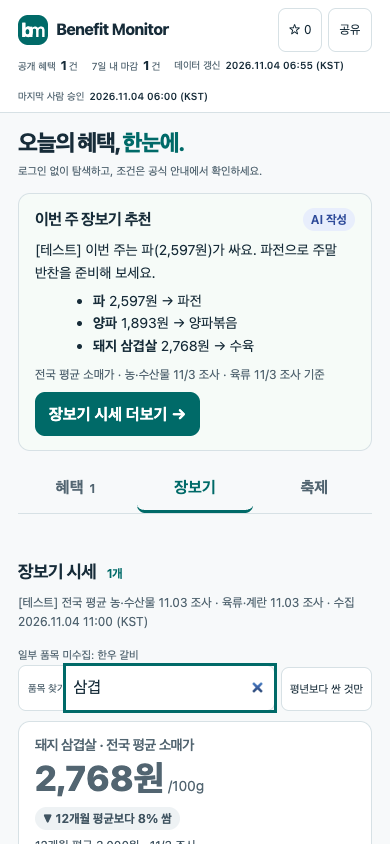
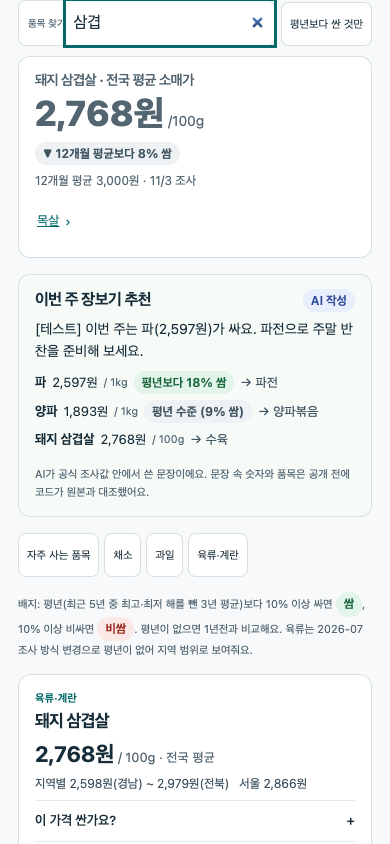
fix(web): 장보기 결과 카드 보강(행 없는 링크 제외·첫 화면 노출·안내 문구·접근성)

diff --git a/frontend/tests/e2e/groceries.spec.ts b/frontend/tests/e2e/groceries.spec.ts
@@ -133,8 +133,8 @@ const grocery_baselines={schema_version:1,source:'grocery_baselines',items:[
  {id:'moksal',name:'목살',aliases:['돼지 목살'],group:'고기·알',row:{kind:'meat',id:'4304-28-목살'},baseline:null},
  {id:'apdari',name:'앞다리',aliases:['돼지 앞다리'],group:'고기·알',row:{kind:'meat',id:'9999-1-앞다리'},baseline:null}]};
 
-for(const width of [360,390])test(`quick check card answers a basket search above the weekly pick ${width}`,async({page})=>{
- await page.setViewportSize({width,height:844});
+for(const [width,height] of [[360,800],[390,844]])test(`quick check card answers a basket search above the weekly pick ${width}`,async({page})=>{
+ await page.setViewportSize({width,height});
  await page.clock.install({time:new Date(NOW)});
  await page.route('**/briefing.json',route=>route.fulfill({json:snapshot(undefined,{groceries:quickGroceries,grocery_pick:weekly,grocery_baselines})}));
  await page.goto('./');
@@ -142,6 +142,11 @@ for(const width of [360,390])test(`quick check card answers a basket search abov
  await page.locator('#grocery-q').fill('삼겹');
  const card=page.locator('.grocery-quick');
  await expect(card).toBeInViewport();
+ // The answer itself (price and badge) must be fully on the first screen.
+ await expect(card.locator('.grocery-quick-price')).toBeInViewport({ratio:1});
+ await expect(card.locator('.grocery-badge')).toBeInViewport({ratio:1});
+ await expect(card.locator('.grocery-quick-note')).toBeInViewport({ratio:1});
+ await expect(page.locator('#groceries [role=status]')).toContainText('돼지 삼겹살 전국 평균 소매가 2,768원 /100g');
  const [c,p]=await Promise.all([card.boundingBox(),page.locator('.grocery-pick').boundingBox()]);
  expect(c!.y).toBeLessThan(p!.y);
  const [m,d]=kst(1).slice(5).split('-').map(Number);
@@ -149,10 +154,14 @@ for(const width of [360,390])test(`quick check card answers a basket search abov
  await expect(card.locator('.grocery-quick-price')).toHaveText(/2,768원\s*\/100g/);
  await expect(card.locator('.grocery-badge')).toContainText('개월 평균보다');
  await expect(card.locator('.grocery-quick-note')).toHaveText(`12개월 평균 3,000원 · ${m}/${d} 조사`);
- await expect(card.locator('.grocery-quick-links')).toHaveText(/대패삼겹 · 목살 · 앞다리 ›/);
+ // Items without a row today (대패삼겹, 앞다리) are not offered as links.
+ await expect(card.locator('.grocery-quick-links')).toHaveText('목살 ›');
+ await expect(card.getByRole('button',{name:'대패삼겹'})).toHaveCount(0);
+ await expect(card.getByRole('button',{name:'앞다리'})).toHaveCount(0);
  await page.screenshot({path:`../docs/qa/screenshots/grocery-quick-check-${width}.png`});
  await card.getByRole('button',{name:'목살'}).click();
  await expect(page.locator('#grocery-q')).toHaveValue('목살');
+ await expect(page.locator('#grocery-q')).toBeFocused();
  await expect(card.locator('h3')).toHaveText('목살 · 전국 평균 소매가');
  await expect(card.locator('.grocery-badge')).toHaveCount(0);
  await expect(card.locator('.grocery-quick-note')).toHaveText(`${m}/${d} 조사`);
@@ -167,4 +176,14 @@ test('a search outside the basket explains it and shows no card',async({page})=>
  await page.locator('#grocery-q').fill('없는품목');
  await expect(page.locator('.grocery-quick')).toHaveCount(0);
  await expect(page.locator('#groceries .empty-state')).toContainText('아직 자주 사는 품목에 없어요');
+});
+
+test('an empty basket never claims the item is missing from it',async({page})=>{
+ await page.clock.install({time:new Date(NOW)});
+ await page.route('**/briefing.json',route=>route.fulfill({json:snapshot(undefined,{groceries:quickGroceries})}));
+ await page.goto('./');
+ await page.getByRole('tab',{name:'장보기'}).click();
+ await page.locator('#grocery-q').fill('없는품목');
+ await expect(page.locator('#groceries .empty-state')).toBeVisible();
+ await expect(page.locator('#groceries .empty-state')).not.toContainText('아직 자주 사는 품목에 없어요');
 });

diff --git a/frontend/src/GrocerySection.vue b/frontend/src/GrocerySection.vue
@@ -1,5 +1,5 @@
 <script setup lang="ts">
-import { computed, ref } from 'vue';
+import { computed, ref, watch, nextTick } from 'vue';
 import GroceryQuickCheck from './GroceryQuickCheck.vue';
 import { featuredRows, verdict, guideFor, wikiLink, won, CATEGORIES, BASIS_LABEL, KAMIS_SOURCE, EKAPE_SOURCE, type PriceRow, type BasketItem, quickMatch, type FeaturedRow, type GroceryBundle, type WeeklyPick } from './groceries';
 import GroceryCalc from './GroceryCalc.vue';
@@ -36,6 +36,11 @@ function othersLine(r:PriceRow):string{
  return `${word}: ${others.map(o=>`${o.detail} ${won(o.current)}`).join(' · ')}`;
 }
 const inBasket=computed(()=>!!quickMatch(q.value,basketItems.value));
+// Without a basket (baselines missing/stale) we cannot claim an item is outside it.
+const showNotInBasket=computed(()=>!!q.value.trim()&&basketItems.value.length>0&&!inBasket.value);
+// Bring the search field to the top so the card's answer (price + badge) is on the first screen.
+watch(q,()=>nextTick(()=>{if(document.querySelector('.grocery-quick'))document.querySelector('.grocery-filters')?.scrollIntoView({block:'start'});}));
+function pickName(name:string){q.value=name;shown.value=PAGE;nextTick(()=>document.getElementById('grocery-q')?.focus());}
 function pick(c:string){category.value=c;q.value='';shown.value=PAGE;}
 </script>
 <template>
@@ -49,7 +54,7 @@ function pick(c:string){category.value=c;q.value='';shown.value=PAGE;}
       <div class="filter-field grocery-search"><label for="grocery-q">품목 찾기</label><input id="grocery-q" v-model="q" type="search" placeholder="예: 양파, 삼겹살, 고등어" autocomplete="off" @input="shown=PAGE"></div>
       <div class="quick-filters"><button type="button" :aria-pressed="cheapOnly" @click="cheapOnly=!cheapOnly;shown=PAGE">평년보다 싼 것만</button></div>
     </div>
-    <GroceryQuickCheck :q="q" :basket="basketItems" :rows="bundle.rows" :produce-date="bundle.produceDate" :meat-date="bundle.meatDate" @pick="name=>{q=name;shown=PAGE}" />
+    <GroceryQuickCheck :q="q" :basket="basketItems" :rows="bundle.rows" :produce-date="bundle.produceDate" :meat-date="bundle.meatDate" @pick="pickName" />
     <article v-if="weekly" class="grocery-pick" aria-labelledby="grocery-pick-title">
       <div class="card-meta"><h3 id="grocery-pick-title">이번 주 장보기 추천</h3><span class="grocery-badge" :class="weekly.source==='ai'?'ai':'normal'">{{ weekly.source==='ai'?'AI 작성':'자동 선정' }}</span></div>
       <p v-if="weekly.summary" class="grocery-pick-summary">{{ weekly.summary }}</p>
@@ -98,7 +103,7 @@ function pick(c:string){category.value=c;q.value='';shown.value=PAGE;}
         <a class="grocery-source" :href="row.kind==='meat'?EKAPE_SOURCE:KAMIS_SOURCE" target="_blank" rel="noopener noreferrer">출처 {{ row.kind==='meat'?'축산물품질평가원':'KAMIS' }} <span aria-hidden="true">↗</span><span class="sr-only"> (새 창)</span></a>
       </article>
     </div>
-    <div v-else class="empty-state"><h3>조건에 맞는 품목이 없어요</h3><p>다른 부류를 고르거나 검색어를 바꿔 보세요.</p><p v-if="q.trim()&&!inBasket">아직 자주 사는 품목에 없어요</p></div>
+    <div v-else class="empty-state"><h3>조건에 맞는 품목이 없어요</h3><p>다른 부류를 고르거나 검색어를 바꿔 보세요.</p><p v-if="showNotInBasket">아직 자주 사는 품목에 없어요</p></div>
     <button v-if="filtered.length>visible.length" type="button" class="festival-more" @click="shown+=PAGE">더 보기 ({{ filtered.length-visible.length }}개 남음)</button>
   </section>
 </template>

diff --git a/frontend/src/GroceryQuickCheck.vue b/frontend/src/GroceryQuickCheck.vue
@@ -10,15 +10,19 @@ const view=computed(()=>{
  const row=hit?props.rows.find(r=>r.kind+r.id===hit.best.rowKey):undefined;
  if(!hit||!row)return null;
  const badge=baselineBadge(row,hit.best);
- return {item:hit.best,row,others:hit.others,badge,avg:badge?hit.best.baseline:null,date:md(row.kind==='meat'?props.meatDate:props.produceDate)};
+ const live=new Set(props.rows.map(r=>r.kind+r.id));
+ return {item:hit.best,row,others:hit.others.filter(o=>live.has(o.rowKey)),badge,avg:badge?hit.best.baseline:null,date:md(row.kind==='meat'?props.meatDate:props.produceDate)};
 });
 </script>
 <template>
-  <div v-if="view" class="grocery-quick" role="region" :aria-label="view.item.name+' 전국 평균 소매가'">
+  <div>
+  <div class="sr-only" role="status" aria-live="polite"><template v-if="view">{{ view.item.name }} 전국 평균 소매가 {{ won(view.row.current) }} /{{ view.row.unit.replace(/^원\//,'') }}<template v-if="view.badge"> {{ view.badge.label }}</template></template></div>
+  <div v-if="view" class="grocery-quick">
     <h3>{{ view.item.name }} · 전국 평균 소매가</h3>
     <p class="grocery-quick-price"><strong>{{ won(view.row.current) }}</strong> /{{ view.row.unit.replace(/^원\//,'') }}</p>
     <span v-if="view.badge" class="grocery-badge" :class="view.badge.level">{{ view.badge.label }}</span>
     <p class="grocery-quick-note"><template v-if="view.avg">{{ Math.min(view.avg.months,12) }}개월 평균 {{ won(view.avg.avg) }}<template v-if="view.date"> · </template></template><template v-if="view.date">{{ view.date }} 조사</template></p>
     <p v-if="view.others.length" class="grocery-quick-links"><template v-for="(o,i) in view.others" :key="o.id"><template v-if="i"> · </template><button type="button" @click="emit('pick',o.name)">{{ o.name }}</button></template> ›</p>
+  </div>
   </div>
 </template>

diff --git a/frontend/src/style.css b/frontend/src/style.css
@@ -84,4 +84,4 @@
 .groceries{border-top:0}
 @media(max-width:767px){.pick-teaser h2{font-size:16px}.pick-teaser-summary{font-size:14px}}
 .pick-teaser-date{font-size:12px;color:var(--muted);margin:0 0 8px}
-.grocery-quick{border:1px solid var(--line);border-radius:12px;background:#fff;padding:14px 16px;margin:6px 0 16px}.grocery-quick h3{font-size:14px;font-weight:600;color:var(--muted);margin:0}.grocery-quick-price{margin:2px 0 6px;font-size:14px;color:var(--muted)}.grocery-quick-price strong{font-size:2.2rem;font-weight:800;color:inherit;line-height:1.2}.grocery-quick-note{margin:6px 0 0;font-size:12px;color:#405461}.grocery-quick-links{margin:8px 0 0;font-size:13px;color:var(--accent)}.grocery-quick-links button{background:none;border:0;padding:0 2px;min-height:44px;font:inherit;color:var(--accent);cursor:pointer;text-decoration:underline}
+.grocery-quick{border:1px solid var(--line);border-radius:12px;background:white;padding:14px 16px;margin:6px 0 16px}.grocery-quick h3{font-size:14px;font-weight:600;color:var(--muted);margin:0}.grocery-quick-price{margin:2px 0 6px;font-size:14px;color:var(--muted)}.grocery-quick-price strong{font-size:2.2rem;font-weight:800;color:inherit;line-height:1.2}.grocery-quick-note{margin:6px 0 0;font-size:12px;color:var(--muted)}.grocery-quick-links{margin:8px 0 0;font-size:13px;color:var(--accent)}.grocery-quick-links button{background:none;border:0;padding:0 2px;min-height:44px;font:inherit;color:var(--accent);cursor:pointer;text-decoration:underline}
